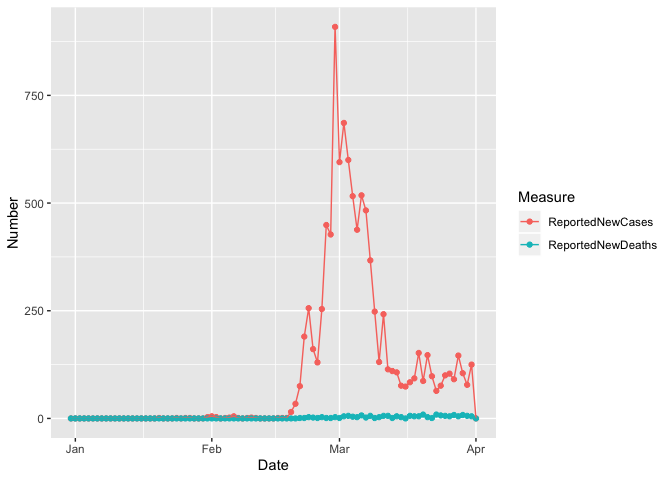
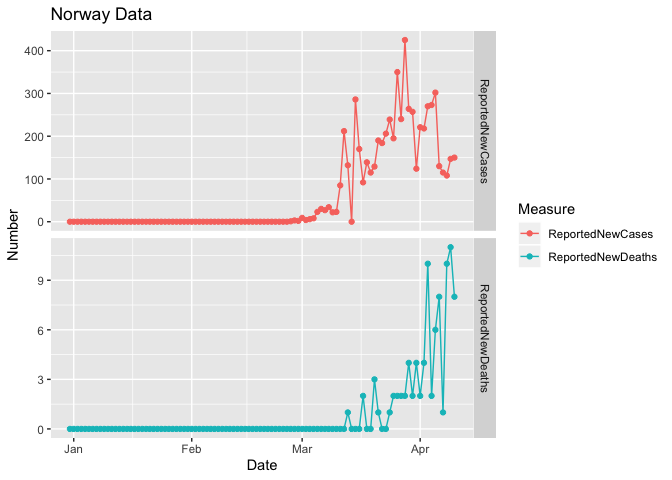
Updating examples

diff --git a/data-raw/Examples/02 Explore Data/README.md b/data-raw/Examples/02 Explore Data/README.md
@@ -10,38 +10,14 @@ This data is stored in the **date\_env** environment, and can be
 accessed. The following is the process for doing this
 
   - First, load in the libraries, and include **ggplot2** for
-    visualisation, and **dplyr** and **tidyr** for data
-    manipulation.
+    visualisation, and **dplyr** and **tidyr** for data manipulation.
 
 <!-- end list -->
 
 ``` r
 library(seirR)
-```
-
-    ## Welcome to package seirR v0.0.0.1
-
-    ## Checking https://covid.ourworldindata.org/data/ecdc/full_data.csv  for data update...
-
-    ## Loading https://covid.ourworldindata.org/data/ecdc/full_data.csv  to global environment data_env
-
-``` r
 library(ggplot2)
 library(dplyr)
-```
-
-    ## 
-    ## Attaching package: 'dplyr'
-
-    ## The following objects are masked from 'package:stats':
-    ## 
-    ##     filter, lag
-
-    ## The following objects are masked from 'package:base':
-    ## 
-    ##     intersect, setdiff, setequal, union
-
-``` r
 library(tidyr)
 ```
 
@@ -53,7 +29,7 @@ library(tidyr)
 data_env$covid_data
 ```
 
-    ## # A tibble: 8,195 x 6
+    ## # A tibble: 10,024 x 6
     ##    Date       Country ReportedNewCases ReportedNewDeat… ReportedTotalCa…
     ##    <date>     <chr>              <dbl>            <dbl>            <dbl>
     ##  1 2019-12-31 Afghan…                0                0                0
@@ -66,14 +42,14 @@ data_env$covid_data
     ##  8 2020-01-07 Afghan…                0                0                0
     ##  9 2020-01-08 Afghan…                0                0                0
     ## 10 2020-01-09 Afghan…                0                0                0
-    ## # … with 8,185 more rows, and 1 more variable: ReportedTotalDeaths <dbl>
+    ## # … with 10,014 more rows, and 1 more variable: ReportedTotalDeaths <dbl>
 
   - Filter out a country of interest, and reshape to tidy data format
 
 <!-- end list -->
 
 ``` r
-countries <- c("South Korea")
+countries <- c("Norway")
 
 ds <- filter(data_env$covid_data,
              Country %in% countries)
@@ -90,20 +66,20 @@ ds_piv <- ds %>% pivot_longer(-c(Date,Country),names_to ="Measure",values_to = "
 ds_piv
 ```
 
-    ## # A tibble: 186 x 4
-    ##    Date       Country     Measure           Number
-    ##    <date>     <chr>       <chr>              <dbl>
-    ##  1 2019-12-31 South Korea ReportedNewCases       0
-    ##  2 2019-12-31 South Korea ReportedNewDeaths      0
-    ##  3 2020-01-01 South Korea ReportedNewCases       0
-    ##  4 2020-01-01 South Korea ReportedNewDeaths      0
-    ##  5 2020-01-02 South Korea ReportedNewCases       0
-    ##  6 2020-01-02 South Korea ReportedNewDeaths      0
-    ##  7 2020-01-03 South Korea ReportedNewCases       0
-    ##  8 2020-01-03 South Korea ReportedNewDeaths      0
-    ##  9 2020-01-04 South Korea ReportedNewCases       0
-    ## 10 2020-01-04 South Korea ReportedNewDeaths      0
-    ## # … with 176 more rows
+    ## # A tibble: 204 x 4
+    ##    Date       Country Measure           Number
+    ##    <date>     <chr>   <chr>              <dbl>
+    ##  1 2019-12-31 Norway  ReportedNewCases       0
+    ##  2 2019-12-31 Norway  ReportedNewDeaths      0
+    ##  3 2020-01-01 Norway  ReportedNewCases       0
+    ##  4 2020-01-01 Norway  ReportedNewDeaths      0
+    ##  5 2020-01-02 Norway  ReportedNewCases       0
+    ##  6 2020-01-02 Norway  ReportedNewDeaths      0
+    ##  7 2020-01-03 Norway  ReportedNewCases       0
+    ##  8 2020-01-03 Norway  ReportedNewDeaths      0
+    ##  9 2020-01-04 Norway  ReportedNewCases       0
+    ## 10 2020-01-04 Norway  ReportedNewDeaths      0
+    ## # … with 194 more rows
 
   - Visualise some of the results
 
@@ -111,7 +87,8 @@ ds_piv
 
 ``` r
 ggplot(ds_piv,aes(x=Date,y=Number,colour=Measure))+
-  geom_point()+geom_line()
+  facet_grid(Measure~.,scales = "free_y")+
+  geom_point()+geom_line()+ggtitle("Norway Data")
 ```
 
 ![](README_files/figure-gfm/unnamed-chunk-5-1.png)<!-- -->

diff --git a/README.md b/README.md
@@ -30,10 +30,10 @@ A new model can be created (xmile format) - arrays not supported - and processed
 ### Examples
 The following are examples of how to use the model (and data)
 
-- [**Running a model**](
-https://github.com/JimDuggan/seirR/tree/master/data-raw/Examples/01%20Run%20Model) [*View Code*](https://github.com/JimDuggan/seirR/blob/master/inst/scripts/01_one_test_p.R)
-- [**Exploring the data set**](
-https://github.com/JimDuggan/seirR/tree/master/data-raw/Examples/02%20Explore%20Data)
+- [**Running a model. **](
+https://github.com/JimDuggan/seirR/tree/master/data-raw/Examples/01%20Run%20Model) [*View Code.*](https://github.com/JimDuggan/seirR/blob/master/inst/scripts/01_one_test_p.R)
+- [**Exploring the data set. **](
+https://github.com/JimDuggan/seirR/tree/master/data-raw/Examples/02%20Explore%20Data)[*View Code.*](https://github.com/JimDuggan/seirR/blob/master/inst/scripts/02_test_data.R)
 - [Running a sensitivity analysis](
 https://github.com/JimDuggan/seirR/tree/master/data-raw/Examples/03%20Sensitivity)
 - [Explain Feature](

diff --git a/data-raw/Examples/01 Run Model/README.md b/data-raw/Examples/01 Run Model/README.md
@@ -12,31 +12,8 @@ In order to run a model, the following steps should be taken.
 
 ``` r
 library(seirR)
-```
-
-    ## Welcome to package seirR v0.2
-
-    ## Checking https://covid.ourworldindata.org/data/ecdc/full_data.csv  for data update...
-
-    ## Loading https://covid.ourworldindata.org/data/ecdc/full_data.csv  to global environment data_env
-
-``` r
 library(ggplot2)
 library(dplyr)
-```
-
-    ## 
-    ## Attaching package: 'dplyr'
-
-    ## The following objects are masked from 'package:stats':
-    ## 
-    ##     filter, lag
-
-    ## The following objects are masked from 'package:base':
-    ## 
-    ##     intersect, setdiff, setequal, union
-
-``` r
 library(readsdr)
 ```
 
